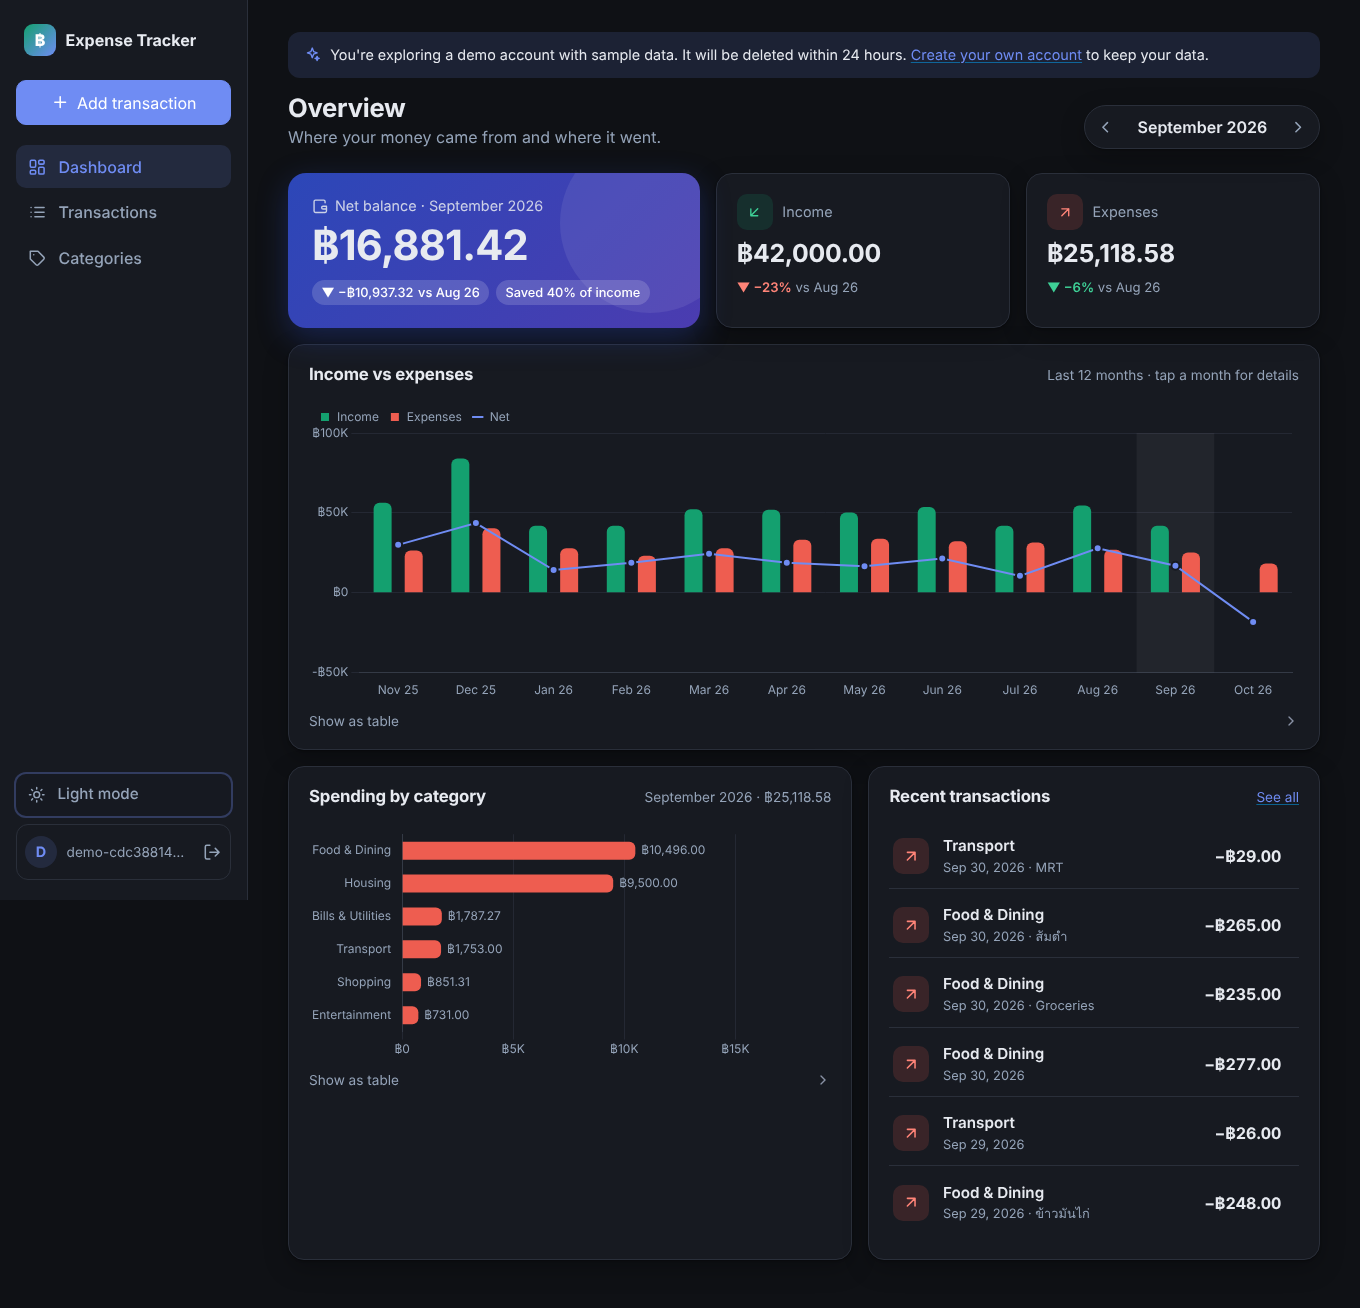
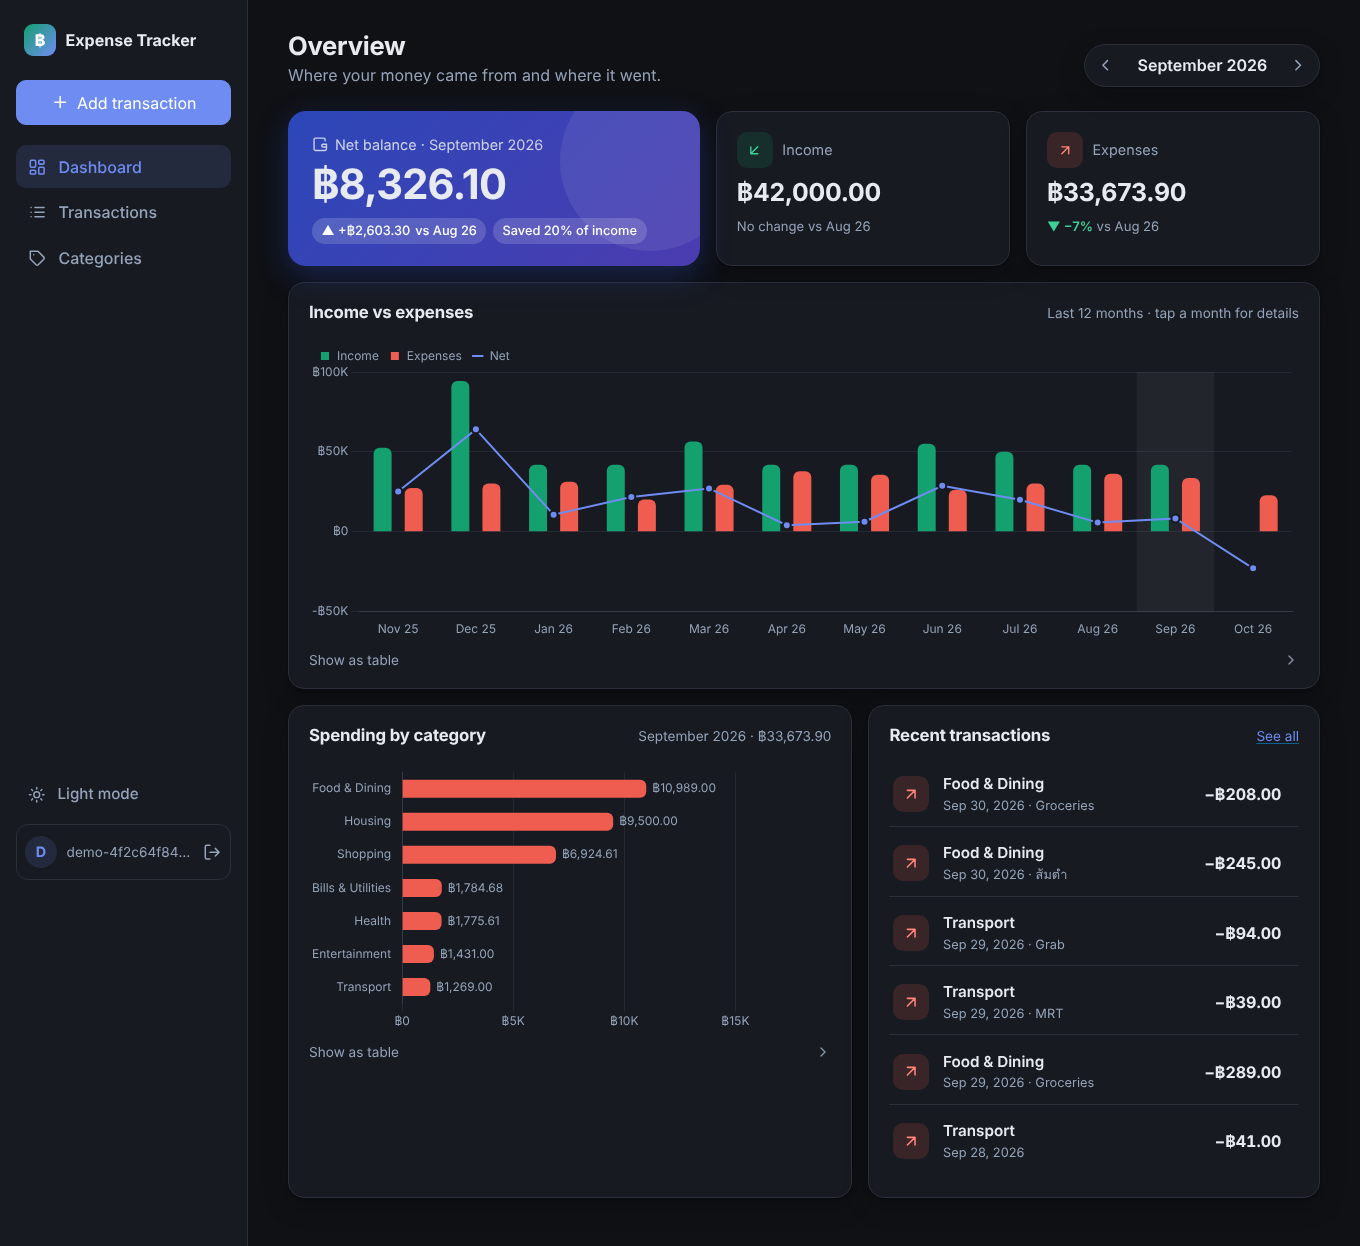
Refresh README screenshots
- Retake every screenshot from a clean demo account (no test entries,
  demo banner hidden), using September 2026 as a complete month
- Add the quick-add dialog, the login page and a dark phone view to
  the README gallery, with captions
- Paint the sidebar column behind the sticky sidebar so long pages
  and full-page screenshots don't show the page background under it

diff --git a/app/static/css/app.css b/app/static/css/app.css
@@ -1308,3 +1308,16 @@ body > main.public,
 .auth-switch {
   margin-top: 1.75rem !important;
 }
+
+/* Paint the sidebar column behind the sticky sidebar too, so long pages (and
+   full-page screenshots) don't show the page background under it. */
+@media (min-width: 961px) {
+  .shell {
+    background: linear-gradient(
+      90deg,
+      var(--surface) 0 247px,
+      var(--border) 247px 248px,
+      var(--bg) 248px
+    );
+  }
+}

diff --git a/README.md b/README.md
@@ -10,15 +10,24 @@ tested JSON API with a lightweight server-rendered UI on top.
 private account with a year of sample data, no sign-up needed. The free host
 sleeps when idle, so the first load can take about a minute.
 
-![Dashboard](docs/screenshots/dashboard.png)
+![Dashboard in light mode](docs/screenshots/dashboard.png)
 
 <table>
   <tr>
-    <td><img src="docs/screenshots/dashboard-dark.png" alt="Dashboard in dark mode"></td>
-    <td><img src="docs/screenshots/transactions.png" alt="Transactions page"></td>
-    <td width="22%"><img src="docs/screenshots/mobile.png" alt="Dashboard on a phone"></td>
+    <td width="50%"><img src="docs/screenshots/dashboard-dark.png" alt="Dashboard in dark mode"><br><sub>Dark mode</sub></td>
+    <td width="50%"><img src="docs/screenshots/transactions.png" alt="Transactions grouped by day"><br><sub>Transactions, grouped by day</sub></td>
+  </tr>
+  <tr>
+    <td width="50%"><img src="docs/screenshots/add-dialog.png" alt="Add transaction dialog"><br><sub>Quick add from any page</sub></td>
+    <td width="50%"><img src="docs/screenshots/login.png" alt="Login page with one-click demo"><br><sub>Login with a one-click demo</sub></td>
   </tr>
 </table>
+
+<p align="center">
+  <img src="docs/screenshots/mobile.png" alt="Dashboard on a phone, light mode" width="260">
+  &nbsp;&nbsp;
+  <img src="docs/screenshots/mobile-dark.png" alt="Dashboard on a phone, dark mode" width="260">
+</p>
 
 ## Features
 
